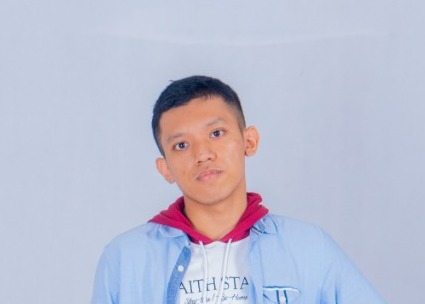
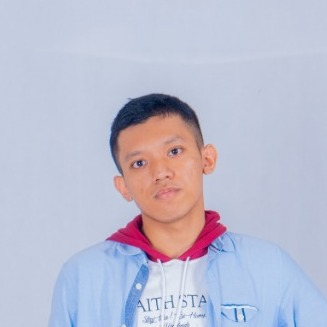
update profile section

diff --git a/css/style.css b/css/style.css
@@ -21,12 +21,13 @@ hr {
 }
 
 .jumbotron img {
-    height: 200px;
-    border: 4px solid white;
+    width: 200px;
+    border: 6px solid white;
 }
 
 .jumbotron {
-    background-color: rgba(186, 212, 235, 0.6);
+    background-color: #0b5a8eea;
+    color: white;
 }
 
 .about img {
